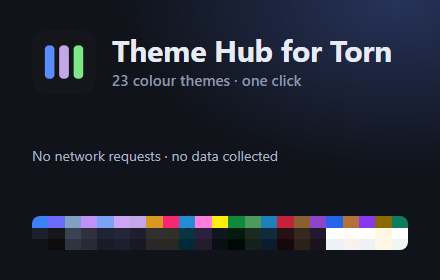
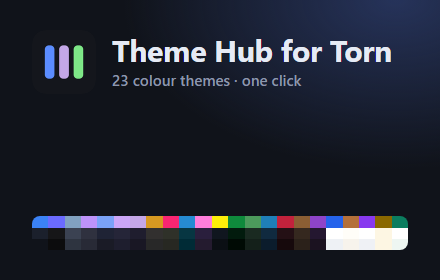
v1.4.8: store assets, forum announcement, trimmed marketing copy
- Marquee promo tile (1400x560) and redacted home screenshot for the stores
- All store images flattened to 24-bit RGB (Chrome Web Store rejects alpha)
- Forum announcement as HTML (store/FORUM-POST.html), replacing the draft
- Dropped the "no network requests / no data collected" line from marketing
  copy (manifest description, summaries, picker shot, promo tile); privacy
  policy and reviewer notes unchanged
- Chrome listing notes: marquee + extra screenshot added
- .gitignore: store/private/ for unredacted screenshots

Changed region(s): [[0.0591, 0.5429, 0.65, 0.6]]

diff --git a/store/FORUM-POST.html b/store/FORUM-POST.html
@@ -1,0 +1,72 @@
+<div style="max-width:720px;line-height:1.55;">
+
+<p style="text-align:center;margin:0 0 14px;"><img src="https://raw.githubusercontent.com/Verified-Madgod/torn-theme-hub/main/store/screenshots/marquee-1400x560.png" alt="Theme Hub for Torn" style="max-width:100%;border-radius:8px;"></p>
+
+<p>Torn gives you two choices. Light mode, and dark mode. That's it.</p>
+
+<p>For a game I've spent a frankly embarrassing number of hours staring at, that felt like a crime. So I fixed it.</p>
+
+<p><b>Theme Hub for Torn</b> is a browser extension that gives Torn <b>23 colour themes</b>. Click the icon in your toolbar, pick one, and it applies instantly. No page reload, no settings maze, no nonsense.</p>
+
+<p style="text-align:center;margin:18px 0;">
+<a href="https://addons.mozilla.org/firefox/addon/theme-hub-for-torn/" style="display:inline-block;background:#7c1623;color:#fff;padding:8px 16px;border-radius:6px;text-decoration:none;font-size:13px;font-weight:bold;border:1px solid #e0364e;white-space:nowrap;">🦊 Get it for Firefox</a>
+&nbsp;
+<a href="https://chromewebstore.google.com/detail/ejkldfhmhcikbanlineflobghbdddgki" style="display:inline-block;background:#7c1623;color:#fff;padding:8px 16px;border-radius:6px;text-decoration:none;font-size:13px;font-weight:bold;border:1px solid #e0364e;white-space:nowrap;">🌐 Get it for Chrome / Edge / Brave / Opera</a>
+</p>
+
+<p style="text-align:center;font-size:11px;color:#999;margin:-8px 0 14px;">Both store listings are still in review. If a link doesn't load yet, give it a day or two.</p>
+
+<p style="font-size:15px;font-weight:bold;color:#f0a830;margin:22px 0 6px;">The themes</p>
+
+<p><b>Dark (18):</b> Midnight, Obsidian, Nord, Dracula, Tokyo Night, Catppuccin Mocha, Rosé Pine, Gruvbox, Monokai, Solarized Dark, Synthwave 84, Cyberpunk, Matrix, Forest, Ocean Deep, Crimson, Coffee, Plum</p>
+
+<p><b>Light (5):</b> Slate, Paper, Catppuccin Latte, Solarized Light, Mint</p>
+
+<p>LIGHT MODE USERS, I SEE YOU. YOU GET FIVE. DON'T SAY I NEVER DID ANYTHING FOR YOU.</p>
+
+<p style="text-align:center;margin:14px 0;"><img src="https://raw.githubusercontent.com/Verified-Madgod/torn-theme-hub/main/store/screenshots/2-gallery.png" alt="All 23 themes" style="max-width:100%;border-radius:8px;"></p>
+
+<p style="font-size:15px;font-weight:bold;color:#f0a830;margin:22px 0 6px;">Stuff I actually cared about getting right</p>
+
+<p><b>You can read it.</b> Half the "dark themes" out there are dark grey text on slightly darker grey. Every theme here was checked so text keeps real contrast against its background, in both Torn's light and dark mode, on every panel I could get my hands on.</p>
+
+<p><b>Colours that mean something stay meaningful.</b> Money is still green. Your energy, nerve, happy and life bars keep their colours, because that's how you tell them apart at a glance. Jail, hospital and travel keep their tints by default so you always know where you are (there's a toggle if you want those themed too).</p>
+
+<p><b>It plays nice with TornTools.</b> I run it myself. They sit side by side without stepping on each other.</p>
+
+<p><b>The wiki is left alone.</b> It's a different site with its own look, and theming it made it look like a crime scene. So it doesn't.</p>
+
+<p style="text-align:center;margin:14px 0;"><img src="https://raw.githubusercontent.com/Verified-Madgod/torn-theme-hub/main/store/screenshots/1-picker.png" alt="The theme picker" style="max-width:100%;border-radius:8px;"></p>
+
+<p style="font-size:15px;font-weight:bold;color:#f0a830;margin:22px 0 6px;">"Is this allowed?"</p>
+
+<p>Yes. I read the scripting rules before I wrote a single line, and built it to stay well inside them.</p>
+
+<ul style="margin:6px 0 10px 18px;padding:0;">
+<li>It doesn't talk to Torn, or anything else. There is no network code in it at all.</li>
+<li>It only recolours the page you're already looking at. It doesn't read other pages, doesn't touch game actions, and doesn't go anywhere near CAPTCHAs.</li>
+<li>Your theme choice is saved in your own browser and never leaves it.</li>
+</ul>
+
+<p>Don't take my word for it. The full source is <a href="https://github.com/Verified-Madgod/torn-theme-hub">on GitHub</a>, nothing minified, nothing hidden. Or open your browser's dev tools, go to the Network tab, and watch it do absolutely nothing.</p>
+
+<p style="font-size:15px;font-weight:bold;color:#f0a830;margin:22px 0 6px;">It's not perfect (yet)</p>
+
+<p>Torn is enormous. There are pages I haven't set foot on in years, and some of them are going to look a bit off. If you find one:</p>
+
+<ul style="margin:6px 0 10px 18px;padding:0;">
+<li>Reply here with the page and a screenshot.</li>
+<li>If you're feeling generous, right-click the broken bit, hit <b>Inspect</b>, and paste the HTML. That turns a "hmm" into a five-minute fix.</li>
+</ul>
+
+<p>I'll fix it. Probably within a day. Possibly while I should be training. Updates install automatically through the store, so you don't have to do anything.</p>
+
+<p>Theme requests are welcome too. If your faction colours deserve their own theme, make your case.</p>
+
+<p style="text-align:center;margin:18px 0 6px;">
+<a href="https://github.com/Verified-Madgod/torn-theme-hub" style="display:inline-block;background:#7c1623;color:#fff;padding:8px 16px;border-radius:6px;text-decoration:none;font-size:13px;font-weight:bold;border:1px solid #e0364e;white-space:nowrap;">💾 Source on GitHub</a>
+</p>
+
+<p style="font-size:11px;color:#999;text-align:center;margin:10px 0 0;">Not affiliated with or endorsed by Torn.</p>
+
+</div>

diff --git a/store/shots/marquee.html b/store/shots/marquee.html
@@ -1,0 +1,73 @@
+<!DOCTYPE html>
+<html><head><meta charset="utf-8"><title>Marquee promo tile 1400x560</title>
+<style>
+  * { box-sizing: border-box; }
+  html, body { margin: 0; width: 1400px; height: 560px; overflow: hidden; }
+  body {
+    font-family: system-ui, -apple-system, "Segoe UI", Roboto, sans-serif; color: #e6ebf5;
+    background:
+      radial-gradient(700px 500px at 88% 10%, #26335a 0%, transparent 62%),
+      radial-gradient(600px 420px at 55% 110%, #2a1f3d 0%, transparent 60%),
+      #10131a;
+    display: grid; grid-template-columns: 560px 1fr; align-items: center;
+  }
+  .copy { padding-left: 84px; }
+  .copy img { width: 84px; height: 84px; border-radius: 18px; box-shadow: 0 12px 34px rgba(0,0,0,.45); }
+  h1 { font-size: 58px; line-height: 1.02; margin: 26px 0 14px; letter-spacing: -.02em; }
+  h1 span { display: block; background: linear-gradient(90deg, #6fa8ff, #c4a7e7, #7ee787);
+            -webkit-background-clip: text; background-clip: text; color: transparent; }
+  p { font-size: 22px; color: #aab4c8; margin: 0; }
+
+  /* fanned grid of theme previews */
+  .stage { position: relative; height: 560px; overflow: hidden; }
+  .grid {
+    position: absolute; left: 30px; top: -40px;
+    display: grid; grid-template-columns: repeat(4, 196px); gap: 16px;
+    transform: rotate(-8deg); transform-origin: 0 0;
+  }
+  .card { border-radius: 12px; overflow: hidden; box-shadow: 0 0 0 1px rgba(255,255,255,.07), 0 14px 30px rgba(0,0,0,.45); }
+  .mini { height: 120px; display: grid; grid-template-columns: 36px 1fr; grid-template-rows: 15px 1fr; }
+  .mini .hd { grid-column: 1 / -1; }
+  .mini .sd { padding: 7px 6px; display: grid; gap: 6px; align-content: start; }
+  .mini .sd i, .mini .pn i { display: block; border-radius: 2px; }
+  .mini .sd i { height: 4px; }
+  .mini .bd { padding: 8px 9px 0; }
+  .mini .tb { height: 12px; border-radius: 3px 3px 0 0; }
+  .mini .pn { border-radius: 0 0 3px 3px; padding: 7px; display: grid; gap: 5px; }
+  .mini .pn i { height: 4px; }
+  .mini .btn { width: 34px; height: 10px; border-radius: 3px; margin-top: 2px; }
+  .foot { padding: 8px 10px; font-size: 14px; font-weight: 600; }
+</style></head>
+<body>
+  <div class="copy">
+    <img src="../../icons/icon-128.png" alt="">
+    <h1>Theme Hub<span>for Torn</span></h1>
+    <p>23 colour themes &middot; switch in one click</p>
+  </div>
+  <div class="stage"><div class="grid" id="grid"></div></div>
+<script src="../../src/themes.js"></script>
+<script>
+  // a varied mix of dark and light palettes, enough to fill the fanned grid
+  var pick = ['midnight','dracula','paper','synthwave','nord','gruvbox','slate','cyberpunk',
+              'tokyo-night','catppuccin-latte','crimson','ocean','matrix','rose-pine','solarized-light','forest',
+              'coffee','monokai','mint','plum'];
+  var grid = document.getElementById('grid');
+  pick.forEach(function (id) {
+    var t = TORN_THEMES[id], v = t.vars;
+    var c = document.createElement('div'); c.className = 'card';
+    var mini = document.createElement('div'); mini.className = 'mini'; mini.style.background = v.bg;
+    function el(cls, bg, parent) { var n = document.createElement(cls === 'i' ? 'i' : 'div'); if (cls !== 'i') n.className = cls; if (bg) n.style.background = bg; parent.appendChild(n); return n; }
+    el('hd', v.header, mini);
+    var sd = el('sd', v.sidebar, mini);
+    [v.text, v.accent, v['text-dim'], v['text-dim']].forEach(function (col) { el('i', col, sd); });
+    var bd = el('bd', null, mini);
+    el('tb', v.titlebar, bd);
+    var pn = el('pn', v.surface, bd); pn.style.boxShadow = 'inset 0 0 0 1px ' + v.border;
+    [[v.text, '85%'], [v.link, '60%'], [v['text-dim'], '72%']].forEach(function (x) { el('i', x[0], pn).style.width = x[1]; });
+    el('btn', v.accent, pn);
+    c.appendChild(mini);
+    var f = el('foot', v.surface, c); f.style.color = v.heading; f.textContent = t.name;
+    grid.appendChild(c);
+  });
+</script>
+</body></html>

diff --git a/store/shots/picker.html b/store/shots/picker.html
@@ -38,7 +38,7 @@
       <li><span><b>18 dark, 5 light</b> palettes</span></li>
       <li><span>Every theme contrast-checked for readability</span></li>
       <li><span>Money, bars &amp; status colours left untouched</span></li>
-      <li><span><b>No network requests</b>, no data collected</span></li>
+      <li><span>Works alongside <b>TornTools</b></span></li>
     </ul>
   </div>
   <div class="stage"><iframe class="frame" src="popup-frame.html?theme=midnight"></iframe></div>

diff --git a/store/shots/promo.html b/store/shots/promo.html
@@ -19,7 +19,6 @@
 <body>
   <div class="top"><img src="../../icons/icon-128.png" alt="">
     <h1>Theme Hub for Torn<small>23 colour themes &middot; one click</small></h1></div>
-  <div class="line">No network requests &middot; no data collected</div>
   <div class="strip" id="strip"></div>
 <script src="../../src/themes.js"></script>
 <script>

diff --git a/store/LISTING-chrome.md b/store/LISTING-chrome.md
@@ -11,8 +11,8 @@ One-time $5 registration fee. Upload `dist/theme-hub-for-torn-<version>-chrome.z
 
 **Name** — Theme Hub for Torn  _(taken from the manifest)_
 
-**Summary** — taken from the manifest `description` (111 chars):
-> 23 colour themes for torn.com. Restyles only the page you're viewing - no network requests, no data collection.
+**Summary** — taken from the manifest `description` (93 chars):
+> 23 colour themes for torn.com. Pick one from the toolbar and it applies instantly, no reload.
 
 **Description** — use the Firefox description in `LISTING-firefox.md` as-is.
 
@@ -28,6 +28,8 @@ is for browser themes, not extensions.
 | Store icon 128×128 | `icons/icon-128.png` | yes |
 | Screenshot 1280×800 | `1-picker.png`, `2-gallery.png` | at least 1 |
 | Small promo tile 440×280 | `promo-440x280.png` | yes |
+| Marquee promo tile 1400×560 | `marquee-1400x560.png` | optional (used if Chrome features the extension) |
+| Extra screenshot | `3-home.png` (personal numbers blurred) | optional |
 
 Same advice as Firefox: add a real Torn screenshot or two, with your name,
 money and other players' names cropped or blurred.

diff --git a/store/LISTING-firefox.md b/store/LISTING-firefox.md
@@ -16,10 +16,9 @@ Theme Hub for Torn
 ## Add-on URL (slug)
 theme-hub-for-torn
 
-## Summary  (≤ 250 chars — this is 213)
+## Summary  (≤ 250 chars — this is 129)
 23 colour themes for torn.com — Midnight, Nord, Dracula, Solarized, Paper and
-more. Switch instantly from the toolbar. Pure CSS restyling of the page you're
-viewing: no network requests, no data collection.
+more. Switch instantly from the toolbar, no reload.
 
 ## Description
 
